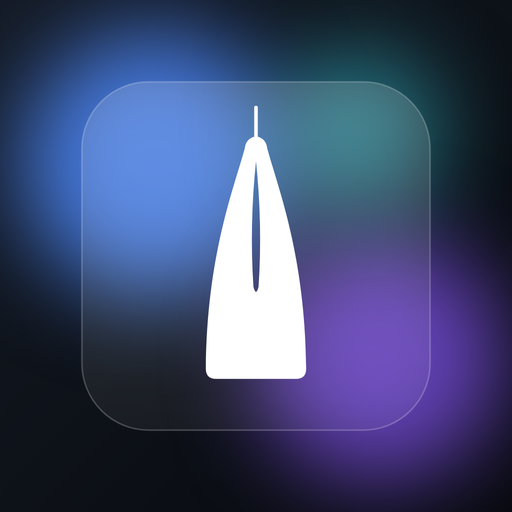
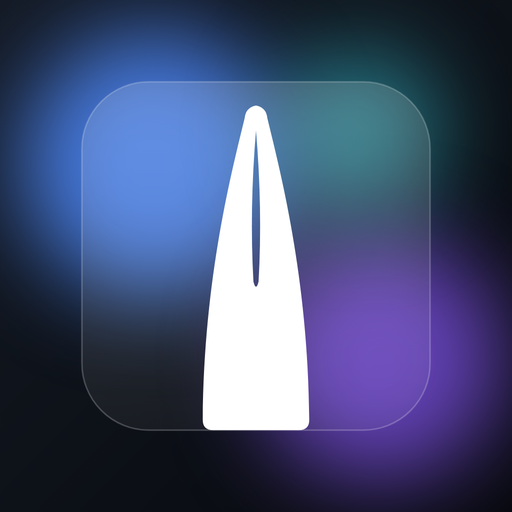
아이콘: 첨탑 제거, 밑동을 카드 아래 끝까지
Claude-Session: https://claude.ai/code/session_013vYkAwcZjb4s3cxt5sEN9t

diff --git a/sw.js b/sw.js
@@ -1,5 +1,5 @@
 /* 홈 화면 앱: network first (always the newest build when online), cached copy when offline */
-const C='pixel-city-v6',A=['./','./index.html','./manifest.webmanifest','./icons/icon-192.png','./icons/icon-512.png'];
+const C='pixel-city-v7',A=['./','./index.html','./manifest.webmanifest','./icons/icon-192.png','./icons/icon-512.png'];
 self.addEventListener('install',e=>{self.skipWaiting();e.waitUntil(caches.open(C).then(c=>c.addAll(A)));});
 self.addEventListener('activate',e=>{e.waitUntil(caches.keys().then(k=>Promise.all(k.filter(x=>x!==C).map(x=>caches.delete(x)))).then(()=>self.clients.claim()));});
 self.addEventListener('fetch',e=>{const r=e.request;if(r.method!=='GET'||new URL(r.url).origin!==location.origin)return;
